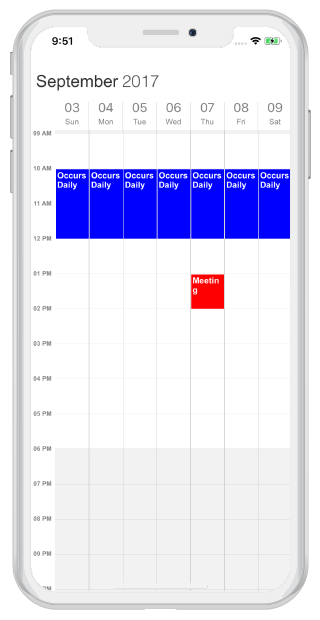
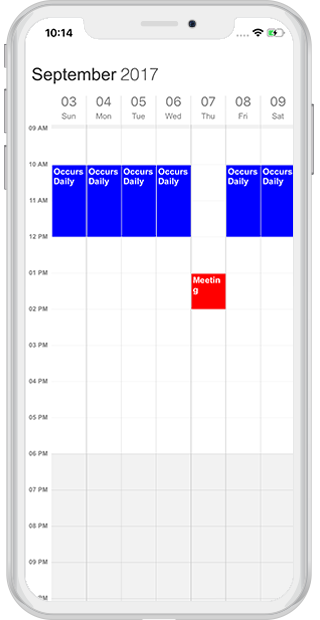
no message

diff --git a/Xamarin-iOS/SfSchedule/Data-Bindings.md b/Xamarin-iOS/SfSchedule/Data-Bindings.md
@@ -531,7 +531,11 @@ ScheduleAppointment recurrenceAppointment = new ScheduleAppointment
 	EndTime = endDate,
 	Subject = (NSString)"Occurs Daily",
 	AppointmentBackground = UIColor.Blue,
-	RecurrenceRule = (NSString)"FREQ=DAILY;COUNT=20"
+	RecurrenceRule = (NSString)"FREQ=DAILY;COUNT=20",
+        RecurrenceExceptionDates = new ObservableCollection<NSDate> 
+	{
+           exceptionDate
+	}
 };
 
 var exceptionAppointment = new ScheduleAppointment
@@ -748,7 +752,11 @@ ScheduleAppointment recurrenceAppointment = new ScheduleAppointment
 	EndTime = endDate,
 	Subject = (NSString)"Occurs Daily",
 	AppointmentBackground = UIColor.Blue,
-	RecurrenceRule = (NSString)"FREQ=DAILY;COUNT=20"
+	RecurrenceRule = (NSString)"FREQ=DAILY;COUNT=20",
+        RecurrenceExceptionDates = new ObservableCollection<NSDate> 
+	{
+           exceptionDate
+	}
 };
 
 var exceptionAppointment = new ScheduleAppointment
